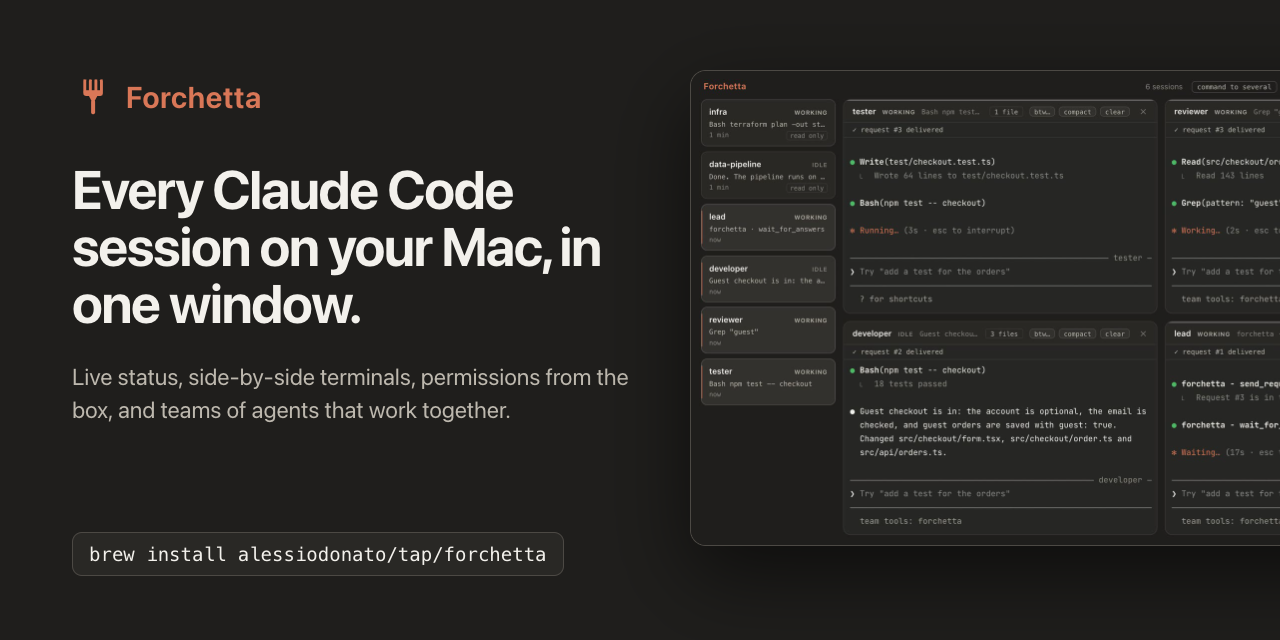
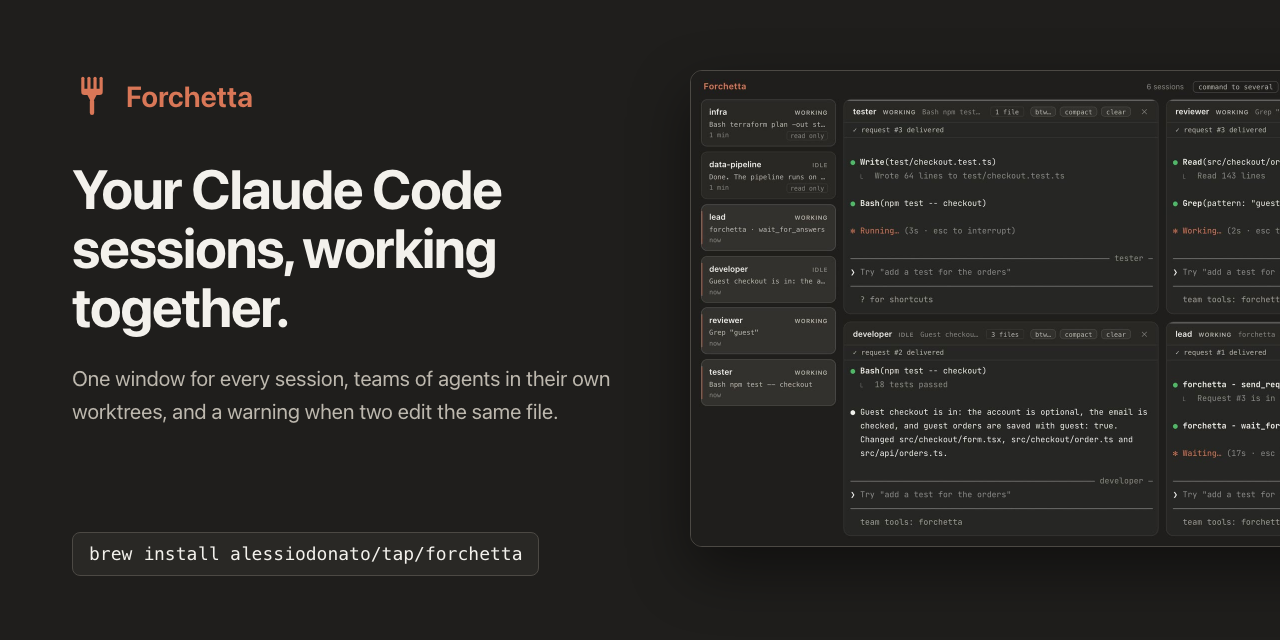
README e sito: le sessioni che lavorano insieme
- Titolo nuovo nei due README, nel sito e nell'immagine delle anteprime:
  "Your Claude Code sessions, working together", al posto di "Every Claude
  Code session on your Mac, in one window".
- "What it does" diviso in quattro parti: vedere le sessioni, gestirle da un
  posto solo, farle lavorare insieme (team, conflitti, passaggi di lavoro),
  il resto. Inglese riscritto in modo naturale.
- Sezione nuova "How it compares" (README e sito): Agent View, Claude
  Desktop, agent teams, cmux e Claude Squad, con quello che fa Forchetta.
- docs/img/social.png rifatta con il titolo nuovo.

diff --git a/docs/index.html b/docs/index.html
@@ -3,10 +3,10 @@
 <head>
 <meta charset="utf-8">
 <meta name="viewport" content="width=device-width, initial-scale=1">
-<title>Forchetta: every Claude Code session on your Mac, in one window</title>
-<meta name="description" content="Forchetta finds the Claude Code sessions running on your Mac and shows, live, what each one is doing, what it waits for and what it costs, and runs teams of agents that work together. Free, open source, local.">
+<title>Forchetta: your Claude Code sessions, working together</title>
+<meta name="description" content="Forchetta keeps every Claude Code session on your Mac in one window, with live status, permission prompts and notifications, and puts them to work as a team: a lead hands out the work, each member does its part in its own git worktree. Free, open source, local.">
 <meta property="og:title" content="Forchetta">
-<meta property="og:description" content="Every Claude Code session on your Mac, in one window.">
+<meta property="og:description" content="Your Claude Code sessions, working together.">
 <meta property="og:image" content="https://alessiodonato.github.io/forchetta/img/social.png">
 <meta property="og:image:width" content="1280">
 <meta property="og:image:height" content="640">
@@ -386,8 +386,8 @@
 
 <main>
   <div class="wrap hero">
-    <h1>Every Claude Code session on your Mac, in one window.</h1>
-    <p class="lead">Forchetta finds the Claude Code sessions you have running and shows, live, what each one is doing, what it is waiting for and what it has cost. Open up to four side by side, answer permission prompts from their box, get a notification when one needs you, and start teams of agents that work together.</p>
+    <h1>Your Claude Code sessions, working together.</h1>
+    <p class="lead">Keep every Claude Code session on your Mac in one window: see what each one is doing, answer its permission prompts, and get a notification when one needs you. Then put them to work as a team. A lead hands out the work, each member does its part in its own git worktree, and Forchetta warns you when two sessions write the same file.</p>
     <div class="actions">
       <a class="button" href="#install">Install with Homebrew</a>
       <a class="button secondary" href="https://github.com/alessiodonato/forchetta">
@@ -531,7 +531,7 @@
       </div>
       <figure class="shot">
         <video src="img/demo.mp4" poster="img/demo-poster.jpg" width="1600" height="950" autoplay muted loop playsinline preload="metadata" aria-label="A team of agents in Forchetta: a team is created from a template, its four terminals open, the lead gets a goal, gives work to developer, then to reviewer and tester, collects their answers and reports back."></video>
-        <figcaption>A team at work, from the template to the answer for you. Recorded in the simulation of the repository: the sessions are scripted stand-ins for Claude Code, the app, the daemon and the queue are the real ones.</figcaption>
+        <figcaption>A team at work, from the template to the answer for you. Recorded in the repository's simulation: the app, the daemon and the queue are real, the sessions are scripted stand-ins for Claude Code.</figcaption>
       </figure>
       <figure class="shot">
         <img src="img/org-chart.png" width="2400" height="1597" loading="lazy" alt="The org chart: the team checkout, its lead above and its three members below, each with the request it works on; three other sessions below.">
@@ -551,6 +551,18 @@
         <li>For each session, the files it changed: its own edits one by one, and the diff since the last commit.</li>
         <li>An icon in the menu bar, and a shortcut from anywhere: <code>⌃⌥F</code>.</li>
       </ul>
+    </section>
+
+    <section class="part text" id="compare">
+      <h2>How it compares</h2>
+      <p>Claude Code has its own ways to run several sessions, and there are good tools built around it. Forchetta is made for one way of working: several Claude Code sessions in your terminals, on one Mac, that you want to watch and coordinate.</p>
+      <ul class="list">
+        <li><b>Agent View</b> (<code>claude agents</code>) is Anthropic's full-screen list of your background sessions, in the terminal. Forchetta is a window that stays open next to your work, with a live box for each session and up to four terminals side by side.</li>
+        <li><b>Claude Desktop</b> is Anthropic's app, with parallel sessions in its sidebar. Forchetta works with the <code>claude</code> CLI you already run in your terminal, with your hooks and settings.</li>
+        <li><b>Agent teams</b>, experimental in Claude Code, are a lead session that spawns teammates and shares a task list with them. In Forchetta, teams are set up in a panel and saved as templates, with a role, model, permissions and worktree for each member, and the lead can be you.</li>
+        <li><b>cmux</b> and <b>Claude Squad</b> are terminals and session managers for many kinds of coding agents. Forchetta is built for Claude Code only, through its hooks: permissions answered from the box, context and cost per session, subagents, teams that talk through an MCP server.</li>
+      </ul>
+      <p>They don't rule each other out. Sessions started in any terminal show up in Forchetta, read only unless you started them with <code>forchetta run claude</code>.</p>
     </section>
 
     <section class="part text">

diff --git a/README.it.md b/README.it.md
@@ -4,9 +4,9 @@
 
 # Forchetta
 
-### Tutte le sessioni di Claude Code del tuo Mac, in una finestra.
+### Le tue sessioni di Claude Code, che lavorano insieme.
 
-Forchetta trova le sessioni di Claude Code che hai aperto e mostra in tempo reale cosa sta facendo ognuna, cosa aspetta e quanto è costata. Ne apri fino a quattro affiancate, rispondi ai permessi dal loro box, ricevi una notifica quando una ha bisogno di te e avvii team di agenti che lavorano insieme.
+Tieni in una finestra tutte le sessioni di Claude Code del tuo Mac: vedi cosa sta facendo ognuna, rispondi ai suoi permessi e ricevi una notifica quando una ha bisogno di te. Poi falle lavorare come un team. Un capo distribuisce il lavoro, ogni membro fa la sua parte nel suo worktree git, e Forchetta ti avvisa quando due sessioni scrivono lo stesso file.
 
 [![macOS 12+](https://img.shields.io/badge/macOS-12+-d97757?style=flat-square&logo=apple&logoColor=white)](#installazione)
 [![Homebrew](https://img.shields.io/badge/brew-alessiodonato%2Ftap%2Fforchetta-d97757?style=flat-square&logo=homebrew&logoColor=white)](#installazione)
@@ -17,6 +17,7 @@ Forchetta trova le sessioni di Claude Code che hai aperto e mostra in tempo real
 
 [Installazione](#installazione) ·
 [Cosa fa](#cosa-fa) ·
+[Rispetto ad altri strumenti](#rispetto-ad-altri-strumenti) ·
 [Team di agenti](#team-di-agenti) ·
 [arricurdAI](#funziona-con-arricurdai) ·
 [Manuale (in inglese)](https://alessiodonato.github.io/forchetta/manual.html) ·
@@ -27,24 +28,43 @@ Forchetta trova le sessioni di Claude Code che hai aperto e mostra in tempo real
 
 <img src="docs/img/demo.gif" alt="Un team di agenti in Forchetta: il team nasce da un modello, si aprono i suoi quattro terminali, il capo riceve un obiettivo, dà lavoro a developer, poi a reviewer e tester, raccoglie le risposte e riferisce." width="100%">
 
-<sub>Un team di agenti al lavoro. Registrato nella simulazione di questo repository (<code>scripts/dev</code>): le sessioni sono controfigure di Claude Code con un copione, mentre app, daemon e coda sono quelli veri.</sub>
+<sub>Un team al lavoro: il capo riceve un obiettivo, lo passa al developer, poi al reviewer e al tester, e riferisce con le loro risposte. Registrato nella simulazione di questo repository (<code>scripts/dev</code>): app, daemon e coda sono quelli veri, le sessioni sono controfigure di Claude Code con un copione.</sub>
 
 </div>
 
 ## Cosa fa
 
-Versione 0.8.5:
-- trova da sola le sessioni Claude Code attive e mostra per ognuna un box con stato, azione in corso, riassunto, contesto, cache e costo;
-- apre fino a 4 sessioni affiancate in terminali veri, agganciati a tmux; selezionando testo in uno, un menu chiede a Claude di quel testo o lo manda a un'altra sessione;
-- manda `/btw`, `/compact` e `/clear` a una o più sessioni, solo quando è sicuro;
-- risponde ai permessi dal box (una volta o "always"), notifica le attese, gli stalli e gli errori, avvisa dei conflitti tra sessioni sugli stessi file;
-- avvia **team di agenti**: un capo (una sessione Claude, oppure tu) e fino a 6 membri, ognuno una sessione di Claude Code, che si passano richieste, risposte e domande; ogni membro risponde al suo capo (⇄) o esegue soltanto (→), e può lavorare in un worktree git tutto suo;
-- mostra i subagenti che ogni sessione avvia e cosa fanno, le sue modifiche e gli artefatti che ha pubblicato su claude.ai, avvia sessioni nuove, organizza le sessioni in gruppi e ruoli, cerca nelle sessioni passate con arricurdAI;
-- sta nella barra dei menu, con la scorciatoia ⌃⌥F.
+**Tutte le sessioni a colpo d'occhio.** Forchetta trova le sessioni di Claude Code aperte sul tuo Mac e dà a ognuna un box aggiornato in tempo reale: lo stato, cosa sta facendo in quel momento, un breve riassunto, il contesto, la cache e il costo. Una sessione che aspetta te diventa ambra, una che ha finito verde, un errore rosso.
 
-Tutto gira in locale. L'unico servizio esterno, facoltativo e spento di default, è la Claude API per i riassunti.
+**Gestiscile da un posto solo.**
+- Rispondi ai permessi dal box, una volta o "always".
+- Ricevi una notifica quando una sessione aspetta, si blocca o va in errore.
+- Apri fino a quattro sessioni affiancate, in terminali veri.
+- Manda `/btw`, `/compact` o `/clear` a una sessione o a più insieme, solo quando è sicuro.
+
+**Falle lavorare insieme.**
+- **Team di agenti.** Un capo, che è una sessione Claude oppure tu, e fino a 6 membri. Ogni membro è una sessione di Claude Code completa, con il suo ruolo e il suo modello e, di default, il suo worktree git. Il capo manda le richieste; i membri rispondono, o gli fanno una domanda quando sono bloccati. Puoi entrare nel terminale di qualsiasi membro, e salvare il team come modello per riavviarlo in un altro progetto.
+- **Avvisi di conflitto.** Quando due sessioni scrivono lo stesso file, lo dicono tutti e due i box.
+- **Passaggi di lavoro.** Seleziona del testo in un terminale per chiederne a Claude, o per mandarlo a un'altra sessione. Prima di un `/clear`, Forchetta può lasciare una nota, così la sessione nuova riparte da dove si era fermata la vecchia (con arricurdAI).
+
+**Tutto il resto, sott'occhio.** I subagenti che ogni sessione avvia e cosa fanno, i file che ha cambiato, gli artefatti che ha pubblicato su claude.ai. Nomi, gruppi e ruoli, con un organigramma. La ricerca nelle sessioni passate (con arricurdAI). Un'icona nella barra dei menu e la scorciatoia ⌃⌥F.
+
+Versione 0.8.5, per macOS 12 o successivo. Tutto gira sul tuo Mac: l'unico servizio esterno, facoltativo e spento di default, è la Claude API per i riassunti.
 
 L'app e i comandi da terminale sono in inglese: in questo README pulsanti e messaggi sono citati come compaiono.
+
+## Rispetto ad altri strumenti
+
+Claude Code ha già i suoi modi per usare più sessioni, e intorno ci sono buoni strumenti. Forchetta è fatta per un modo di lavorare preciso: più sessioni di Claude Code nei tuoi terminali, su un Mac, che vuoi seguire e coordinare.
+
+| | Cos'è | In cosa Forchetta è diversa |
+|---|---|---|
+| **Agent View** (`claude agents`) | La lista a schermo intero delle sessioni in background, di Anthropic, nel terminale | Una finestra che resta aperta accanto al tuo lavoro, con un box per sessione e fino a quattro terminali affiancati. |
+| **Claude Desktop** | L'app di Anthropic, con le sessioni in parallelo nella barra laterale | Lavora con la CLI `claude` che usi già nel terminale, con i tuoi hook e le tue impostazioni. |
+| **Agent teams** (sperimentali in Claude Code) | Una sessione capo che avvia i compagni e divide con loro una lista di compiti | I team si preparano in un pannello e si salvano come modelli: ruolo, modello, permessi e worktree per ogni membro. Il capo puoi essere tu. |
+| **cmux**, **Claude Squad** | Terminali e gestori di sessioni per molti tipi di agenti | Fatta solo per Claude Code, attraverso i suoi hook: permessi dal box, contesto e costo per sessione, subagenti, team che si parlano con un server MCP. |
+
+Non si escludono a vicenda. Le sessioni avviate in qualsiasi terminale compaiono in Forchetta, in sola lettura se non le hai avviate con `forchetta run claude`.
 
 ## Installazione
 

diff --git a/README.md b/README.md
@@ -4,9 +4,9 @@
 
 # Forchetta
 
-### Every Claude Code session on your Mac, in one window.
+### Your Claude Code sessions, working together.
 
-Forchetta finds the Claude Code sessions you have running and shows, live, what each one is doing, what it is waiting for and what it has cost. Open up to four side by side, answer permission prompts from their box, get a notification when one needs you, and start teams of agents that work together.
+Keep every Claude Code session on your Mac in one window: see what each one is doing, answer its permission prompts, and get a notification when one needs you. Then put them to work as a team. A lead hands out the work, each member does its part in its own git worktree, and Forchetta warns you when two sessions write the same file.
 
 [![macOS 12+](https://img.shields.io/badge/macOS-12+-d97757?style=flat-square&logo=apple&logoColor=white)](#install)
 [![Homebrew](https://img.shields.io/badge/brew-alessiodonato%2Ftap%2Fforchetta-d97757?style=flat-square&logo=homebrew&logoColor=white)](#install)
@@ -17,6 +17,7 @@ Forchetta finds the Claude Code sessions you have running and shows, live, what 
 
 [Install](#install) ·
 [What it does](#what-it-does) ·
+[How it compares](#how-it-compares) ·
 [Teams of agents](#teams-of-agents) ·
 [arricurdAI](#works-with-arricurdai) ·
 [Manual](https://alessiodonato.github.io/forchetta/manual.html) ·
@@ -27,22 +28,43 @@ Forchetta finds the Claude Code sessions you have running and shows, live, what 
 
 <img src="docs/img/demo.gif" alt="A team of agents in Forchetta: a team is created from a template, its four terminals open, the lead gets a goal, gives work to developer, then to reviewer and tester, collects their answers and reports back." width="100%">
 
-<sub>A team of agents at work. Recorded in the simulation of this repository (<code>scripts/dev</code>): the sessions are scripted stand-ins for Claude Code, the app, the daemon and the queue are the real ones.</sub>
+<sub>A team at work: the lead gets a goal, hands it to the developer, then to the reviewer and the tester, and reports back with their answers. Recorded in this repository's simulation (<code>scripts/dev</code>): the app, the daemon and the queue are real, the sessions are scripted stand-ins for Claude Code.</sub>
 
 </div>
 
 ## What it does
 
-Version 0.8.5:
-- finds the Claude Code sessions that are running and shows a box for each one, with its state, current action, summary, context, cache and cost;
-- opens up to 4 sessions side by side, in real terminals attached to tmux; select text in one and a menu asks Claude about it, or sends it to another session;
-- sends `/btw`, `/compact` and `/clear` to one session or to several, only when it is safe;
-- answers permission prompts from the box (once or "always"), notifies waits, stalls and errors, and warns when two sessions work on the same files;
-- starts **teams of agents**: a lead (a Claude session, or you) and up to 6 members, each a Claude Code session, that pass each other requests, answers and questions; each member answers its lead (⇄) or only executes (→), and can work in a git worktree of its own;
-- shows the subagents each session starts and what they do, its changes and the artifacts it published on claude.ai, starts new sessions, organizes sessions in groups and roles, and searches earlier sessions with arricurdAI;
-- lives in the menu bar, with the shortcut ⌃⌥F.
+**See every session at a glance.** Forchetta finds the Claude Code sessions running on your Mac and gives each one a live box: its state, what it's doing right now, a short summary, its context, cache and cost. A session waiting for you turns amber, one that has finished turns green, an error turns red.
 
-Everything runs on your Mac. The one outside service, optional and off by default, is the Claude API for the summaries.
+**Handle them from one place.**
+- Answer permission prompts from the box, once or "always".
+- Get a notification when a session is waiting, stalled or failing.
+- Open up to four sessions side by side, in real terminals.
+- Send `/btw`, `/compact` or `/clear` to one session or to several, only when it's safe.
+
+**Make them work together.**
+- **Teams of agents.** A lead, which is a Claude session or you, and up to 6 members. Each member is a full Claude Code session with its own role and model, and by default its own git worktree. The lead sends requests; members answer, or ask the lead when they're stuck. You can step into any member's terminal, and save the team as a template to start it again in another project.
+- **Conflict warnings.** When two sessions write the same file, both boxes say so.
+- **Hand-offs.** Select text in one terminal to ask Claude about it, or to send it to another session. Before a `/clear`, Forchetta can leave a note so the new session starts where the old one stopped (with arricurdAI).
+
+**Keep track of the rest.** The subagents each session starts and what they're doing, the files it changed, the artifacts it published on claude.ai. Names, groups and roles, with an org chart. Search through earlier sessions (with arricurdAI). A menu bar icon, and the shortcut ⌃⌥F.
+
+Version 0.8.5, for macOS 12 or later. Everything runs on your Mac: the only outside service, optional and off by default, is the Claude API for the summaries.
+
+<sub>*Forchetta* is Italian for *fork*: one handle, several tines.</sub>
+
+## How it compares
+
+Claude Code has its own ways to run several sessions, and there are good tools built around it. Forchetta is made for one way of working: several Claude Code sessions in your terminals, on one Mac, that you want to watch and coordinate.
+
+| | What it is | How Forchetta differs |
+|---|---|---|
+| **Agent View** (`claude agents`) | Anthropic's full-screen list of your background sessions, in the terminal | A window that stays open next to your work, with a live box for each session and up to four terminals side by side. |
+| **Claude Desktop** | Anthropic's app, with parallel sessions in its sidebar | It works with the `claude` CLI you already run in your terminal, with your hooks and settings. |
+| **Agent teams** (experimental in Claude Code) | A lead session that spawns teammates and shares a task list with them | Teams are set up in a panel and saved as templates: role, model, permissions and worktree for each member. The lead can be you. |
+| **cmux**, **Claude Squad** | Terminals and session managers for many kinds of coding agents | Built for Claude Code only, through its hooks: permissions answered from the box, context and cost per session, subagents, teams that talk through an MCP server. |
+
+They don't rule each other out. Sessions started in any terminal show up in Forchetta, read only unless you started them with `forchetta run claude`.
 
 ## Install
 
